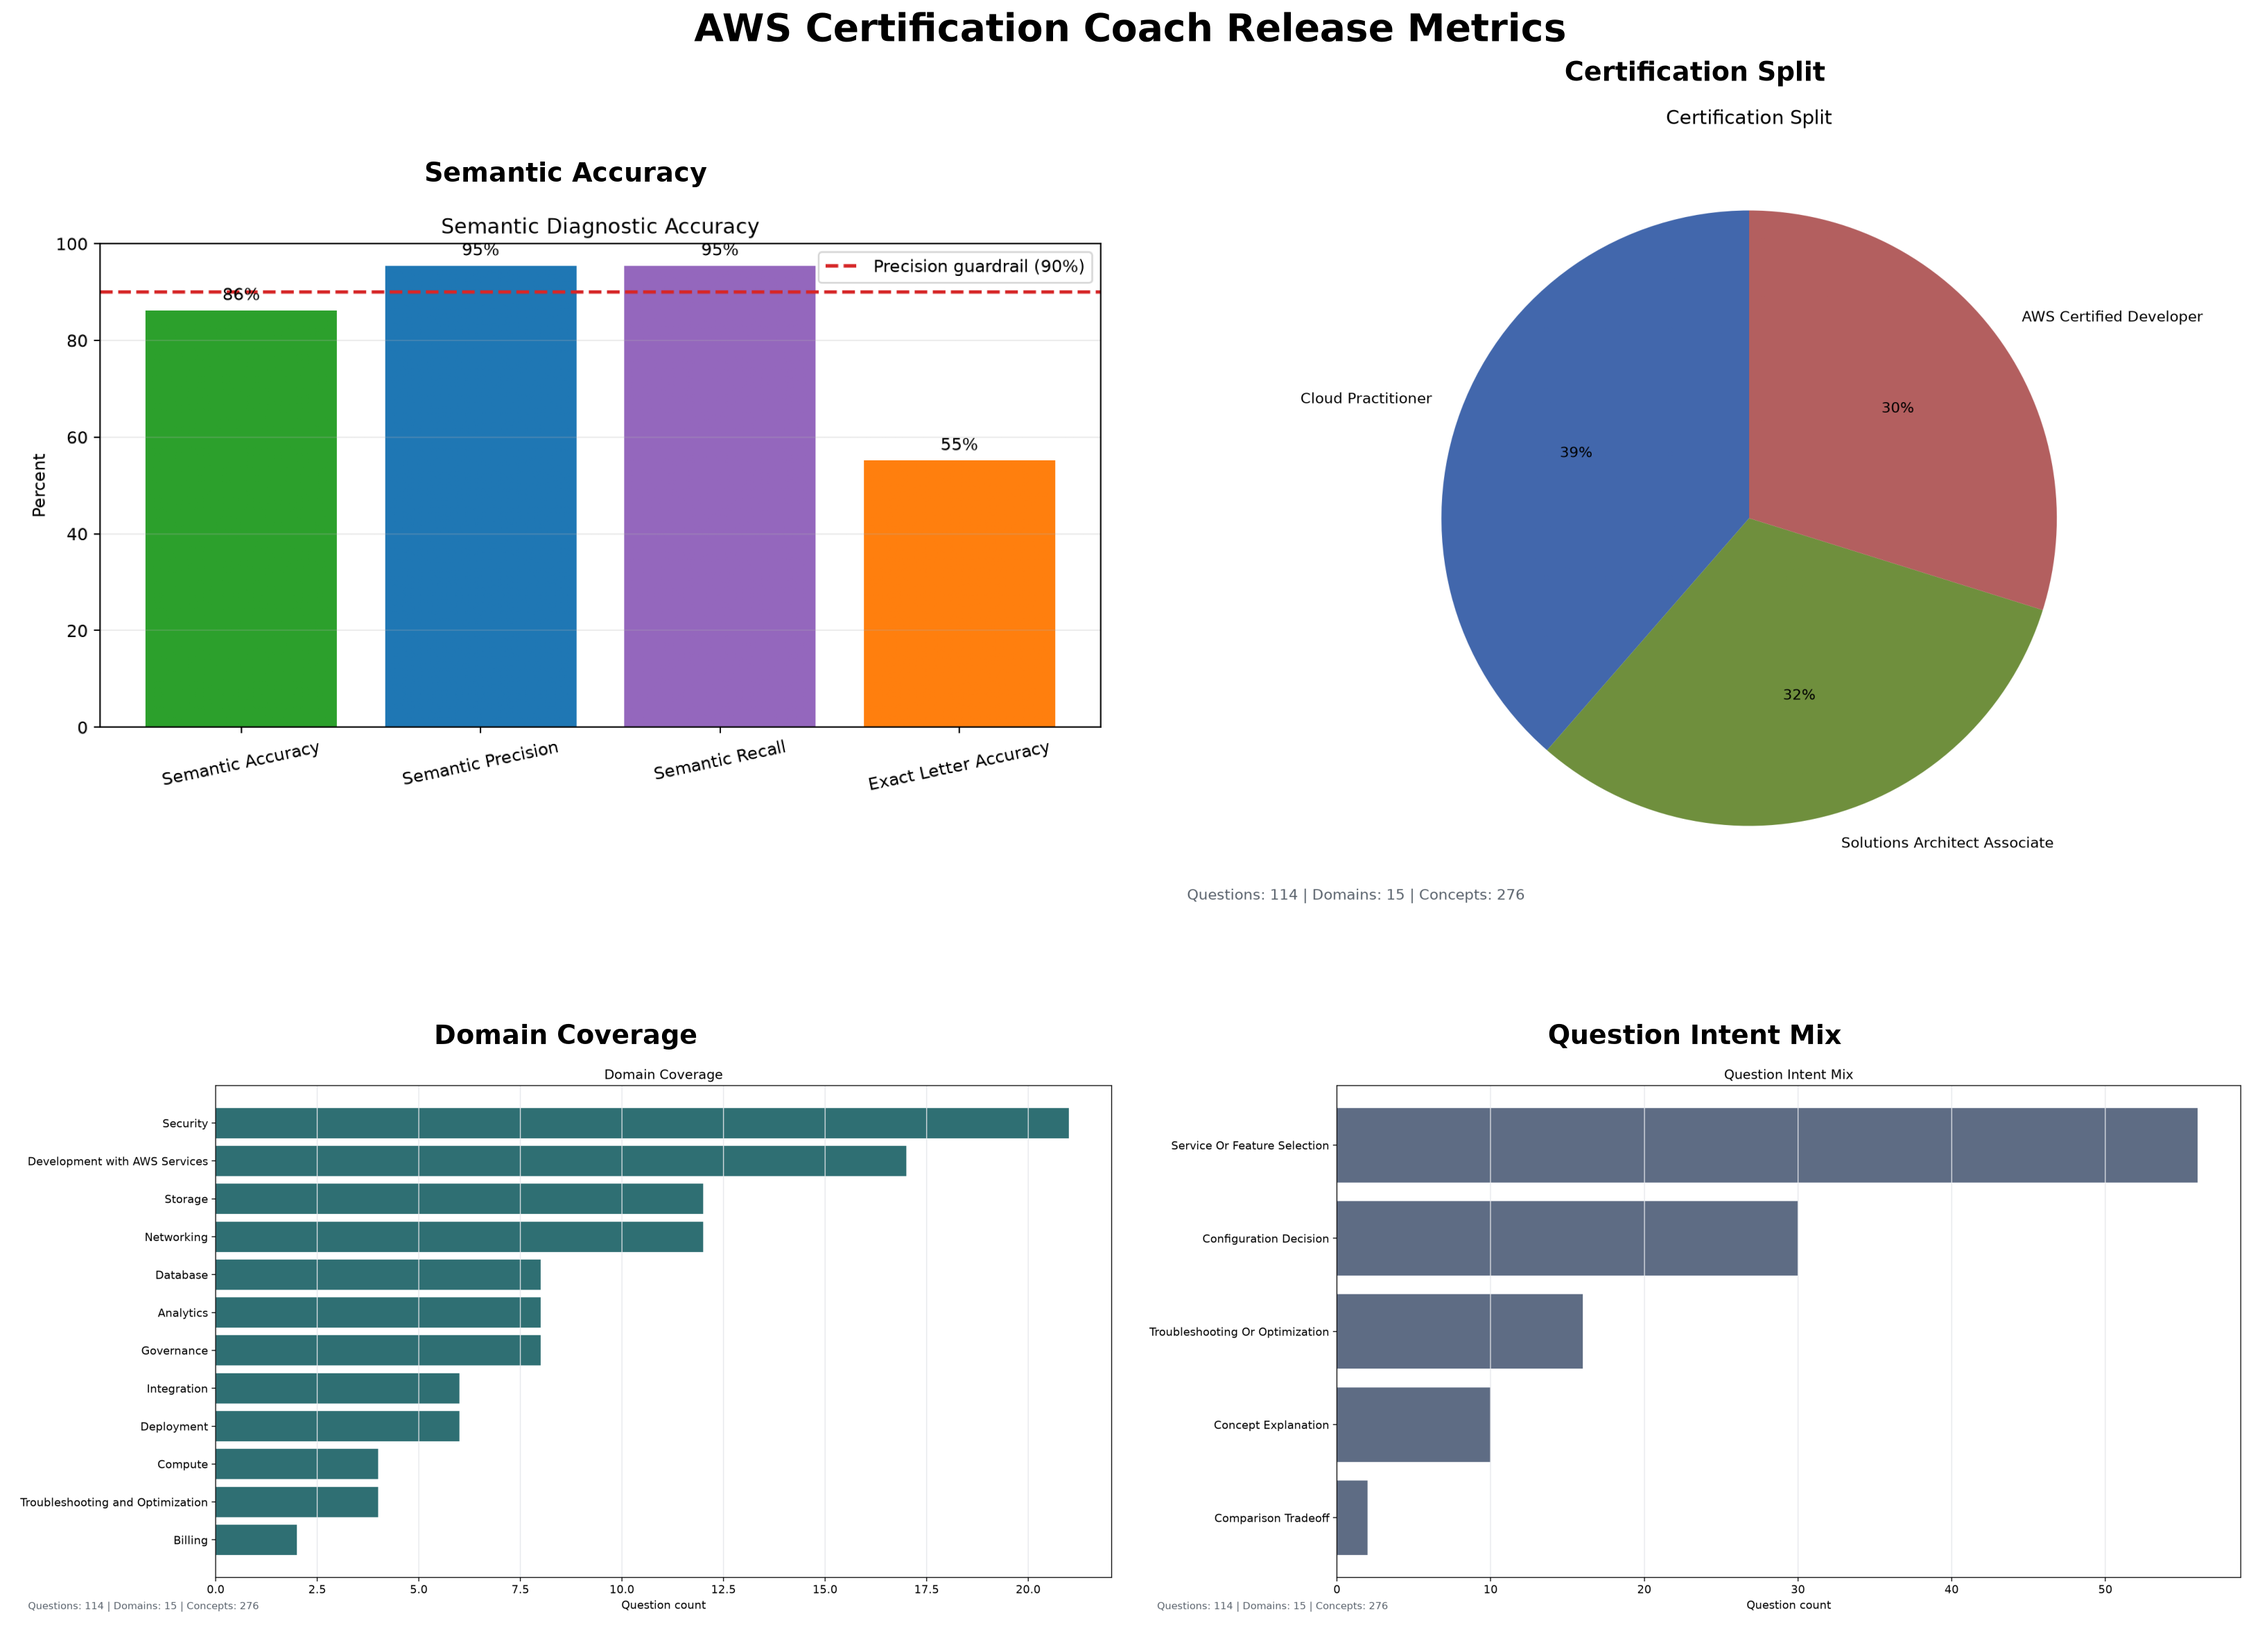
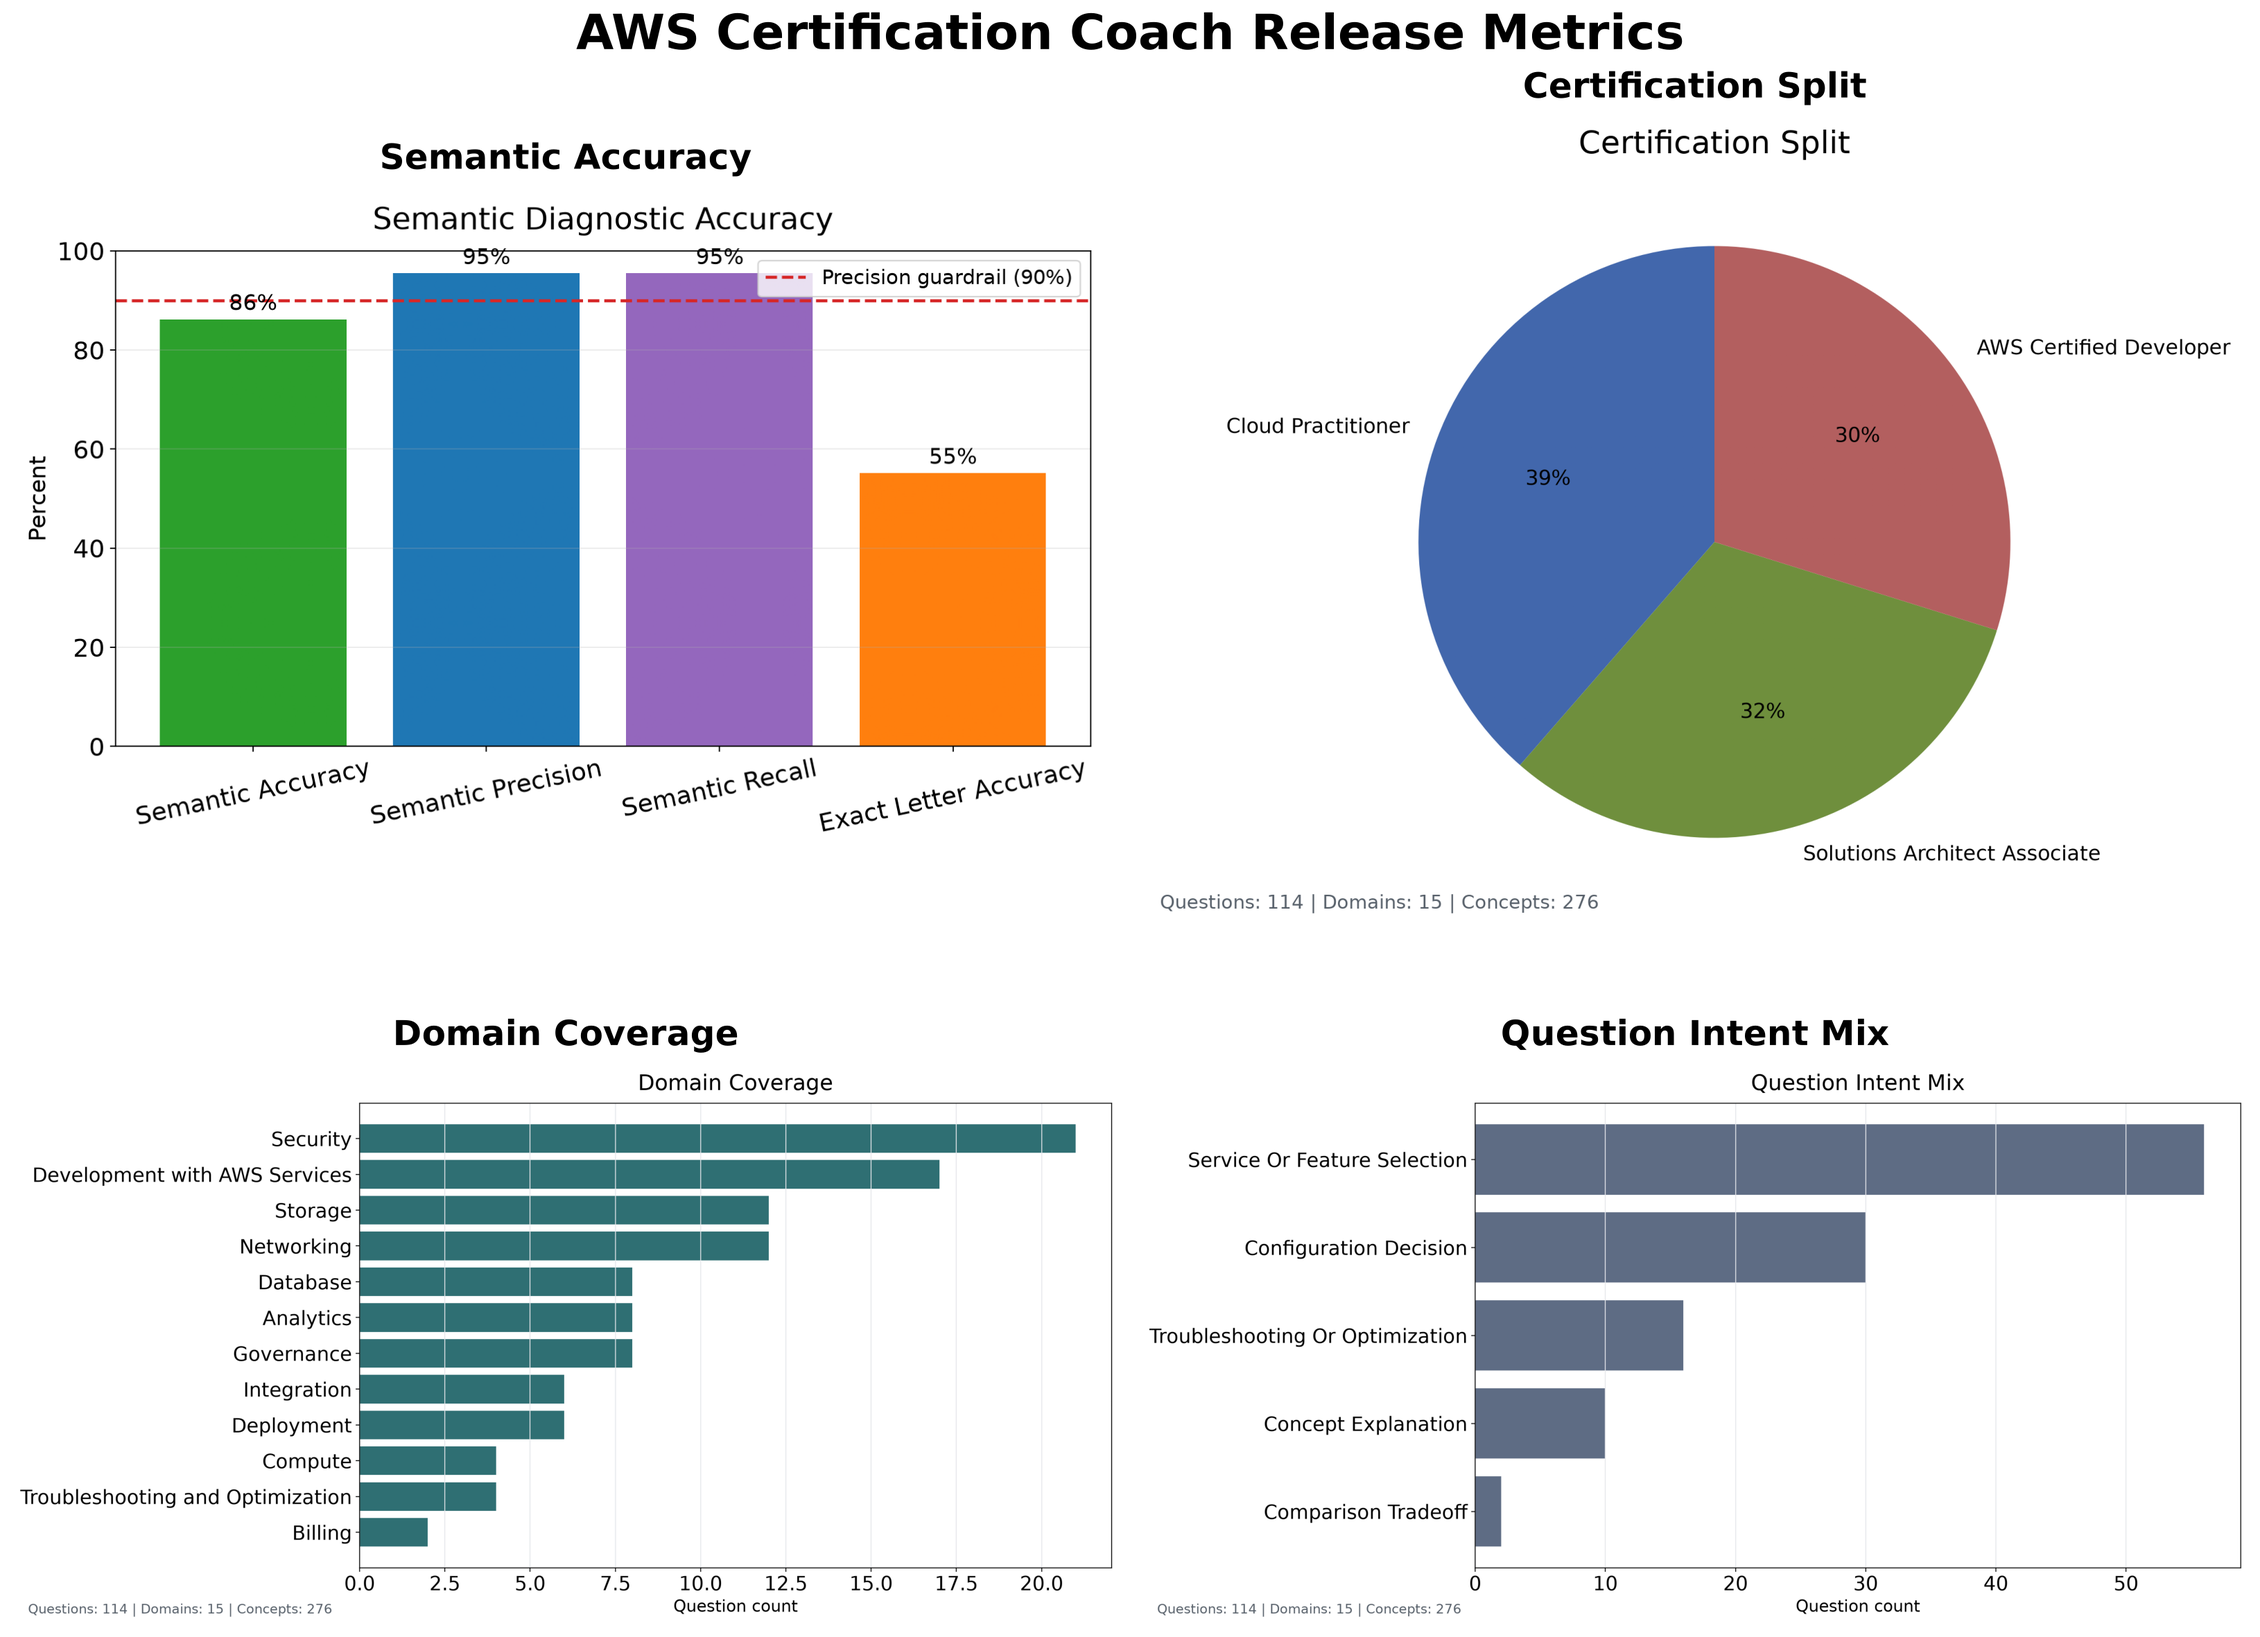
v2.3.2.1 Updated Chart font size

diff --git a/src/aws_certification_coach/release_metrics/question_coverage.py b/src/aws_certification_coach/release_metrics/question_coverage.py
@@ -7,6 +7,16 @@ from pathlib import Path
 from typing import Iterable
 
 
+CHART_FONT_SIZES = {
+    "title": 20,
+    "suptitle": 24,
+    "axis": 15,
+    "tick": 18,
+    "pie": 13,
+    "footer": 12,
+}
+
+
 def measure_question_coverage(rows: Iterable[dict[str, object]]) -> dict[str, object]:
     questions = list(rows)
     domains = Counter(_text(row.get("domain"), "Unknown") for row in questions)
@@ -74,7 +84,11 @@ def plot_question_coverage(metrics: dict[str, object], output_path: Path) -> Non
     cert_axis = figure.add_subplot(grid[2, 0])
     _plot_certifications(cert_axis, certifications)
 
-    figure.suptitle("AWS Certification Coach Question Coverage", fontsize=18, fontweight="bold")
+    figure.suptitle(
+        "AWS Certification Coach Question Coverage",
+        fontsize=CHART_FONT_SIZES["suptitle"],
+        fontweight="bold",
+    )
     figure.text(
         0.01,
         0.01,
@@ -83,7 +97,7 @@ def plot_question_coverage(metrics: dict[str, object], output_path: Path) -> Non
             f"Domains: {int(metrics.get('domain_count', 0))} | "
             f"Concepts: {int(metrics.get('concept_count', 0))}"
         ),
-        fontsize=9,
+        fontsize=CHART_FONT_SIZES["footer"],
         color="#57606a",
     )
     output_path.parent.mkdir(parents=True, exist_ok=True)
@@ -237,8 +251,9 @@ def _plot_horizontal_bars(
     labels = [label for label, _ in series][::-1]
     values = [value for _, value in series][::-1]
     axis.barh(labels, values, color=color)
-    axis.set_title(title)
-    axis.set_xlabel(xlabel)
+    axis.set_title(title, fontsize=CHART_FONT_SIZES["title"], pad=12)
+    axis.set_xlabel(xlabel, fontsize=CHART_FONT_SIZES["axis"])
+    axis.tick_params(axis="both", labelsize=CHART_FONT_SIZES["tick"])
     axis.grid(axis="x", color="#e5e7eb", linewidth=0.8)
 
 
@@ -252,17 +267,18 @@ def _plot_certifications(axis: object, series: list[tuple[str, int]]) -> None:
         autopct=lambda pct: f"{pct:.0f}%" if pct >= 4 else "",
         startangle=90,
         colors=colors[: len(values)],
-        textprops={"fontsize": 9},
+        textprops={"fontsize": CHART_FONT_SIZES["pie"]},
     )
-    axis.set_title("Certification Split")
+    axis.set_title("Certification Split", fontsize=CHART_FONT_SIZES["title"], pad=12)
 
 
 def _plot_question_intents(axis: object, series: list[tuple[str, int]]) -> None:
     labels = [label.replace("_", " ").title() for label, _ in series][::-1]
     values = [value for _, value in series][::-1]
     axis.barh(labels, values, color="#5e6c84")
-    axis.set_title("Question Intent Mix")
-    axis.set_xlabel("Question count")
+    axis.set_title("Question Intent Mix", fontsize=CHART_FONT_SIZES["title"], pad=12)
+    axis.set_xlabel("Question count", fontsize=CHART_FONT_SIZES["axis"])
+    axis.tick_params(axis="both", labelsize=CHART_FONT_SIZES["tick"])
     axis.grid(axis="x", color="#e5e7eb", linewidth=0.8)
 
 
@@ -275,6 +291,6 @@ def _add_footer(figure: object, metrics: dict[str, object]) -> None:
             f"Domains: {int(metrics.get('domain_count', 0))} | "
             f"Concepts: {int(metrics.get('concept_count', 0))}"
         ),
-        fontsize=9,
+        fontsize=CHART_FONT_SIZES["footer"],
         color="#57606a",
     )

diff --git a/scripts/plot_training_history.py b/scripts/plot_training_history.py
@@ -19,6 +19,15 @@ import matplotlib.pyplot as plt
 import pandas as pd
 
 
+CHART_FONT_SIZES = {
+    "title": 19,
+    "axis": 15,
+    "tick": 13,
+    "legend": 13,
+    "annotation": 13,
+}
+
+
 def plot_training_history(
     history_path: Path,
     output_path: Path,
@@ -38,15 +47,16 @@ def plot_training_history(
         figsize=(10, 6),
         color={"mse": "#d62728", "mae": "#1f77b4"},
     )
-    axis.set_title("Partial-Credit Model Performance During Training")
-    axis.set_xlabel("Training epoch")
-    axis.set_ylabel("Error (lower is better)")
+    axis.set_title("Partial-Credit Model Performance During Training", fontsize=CHART_FONT_SIZES["title"], pad=12)
+    axis.set_xlabel("Training epoch", fontsize=CHART_FONT_SIZES["axis"])
+    axis.set_ylabel("Error (lower is better)", fontsize=CHART_FONT_SIZES["axis"])
     axis.set_xscale("log")
     axis.set_xticks(frame.index)
     axis.set_xticklabels([str(int(epoch)) for epoch in frame.index])
+    axis.tick_params(axis="both", labelsize=CHART_FONT_SIZES["tick"])
     axis.set_ylim(bottom=0)
     axis.grid(True, alpha=0.25)
-    axis.legend(["Mean squared error", "Mean absolute error"])
+    axis.legend(["Mean squared error", "Mean absolute error"], fontsize=CHART_FONT_SIZES["legend"])
     axis.figure.tight_layout()
 
     output_path.parent.mkdir(parents=True, exist_ok=True)
@@ -68,16 +78,24 @@ def _plot_curated_accuracy(frame: pd.DataFrame, output_path: Path) -> None:
         color="#2ca02c",
     )
     axis.axhline(90, color="#d62728", linestyle="--", linewidth=2, label="Release target (90%)")
-    axis.set_title("Curated Exact-Letter Accuracy During Training")
-    axis.set_xlabel("Training epoch")
+    axis.set_title("Curated Exact-Letter Accuracy During Training", fontsize=CHART_FONT_SIZES["title"], pad=12)
+    axis.set_xlabel("Training epoch", fontsize=CHART_FONT_SIZES["axis"])
     axis.set_xscale("log")
     axis.set_xticks(frame.index)
     axis.set_xticklabels([str(int(epoch)) for epoch in frame.index])
+    axis.tick_params(axis="both", labelsize=CHART_FONT_SIZES["tick"])
     axis.set_ylim(0, 100)
     axis.grid(True, alpha=0.25)
-    axis.legend(["Curated exact-letter accuracy", "Release target (90%)"])
+    axis.legend(["Curated exact-letter accuracy", "Release target (90%)"], fontsize=CHART_FONT_SIZES["legend"])
     for epoch, value in accuracy.items():
-        axis.annotate(f"{value:.0f}%", (epoch, value), xytext=(0, 8), textcoords="offset points", ha="center")
+        axis.annotate(
+            f"{value:.0f}%",
+            (epoch, value),
+            xytext=(0, 8),
+            textcoords="offset points",
+            ha="center",
+            fontsize=CHART_FONT_SIZES["annotation"],
+        )
     axis.figure.tight_layout()
     output_path.parent.mkdir(parents=True, exist_ok=True)
     axis.figure.savefig(output_path, dpi=160)

diff --git a/scripts/semantic_similarity_evaluation.py b/scripts/semantic_similarity_evaluation.py
@@ -23,6 +23,15 @@ from aws_certification_coach.model_evaluation.semantic_similarity import (
 from aws_certification_coach.questions.json_repository import JsonQuestionRepository
 
 
+CHART_FONT_SIZES = {
+    "title": 20,
+    "axis": 15,
+    "tick": 16,
+    "legend": 13,
+    "annotation": 14,
+}
+
+
 def main() -> None:
     parser = argparse.ArgumentParser(description=__doc__)
     parser.add_argument("--curated", type=Path, default=Path("data/curated/curated_training_data.json"))
@@ -67,15 +76,16 @@ def plot_semantic_accuracy(
         "Exact Letter Accuracy": exact_letter_accuracy * 100,
     }
     colors = ["#2ca02c", "#1f77b4", "#9467bd", "#ff7f0e"]
-    figure, axis = plt.subplots(figsize=(9, 5))
+    figure, axis = plt.subplots(figsize=(10, 6))
     bars = axis.bar(values.keys(), values.values(), color=colors)
     axis.axhline(90, color="#d62728", linestyle="--", linewidth=2, label="Precision guardrail (90%)")
-    axis.set_title("Semantic Diagnostic Accuracy")
-    axis.set_ylabel("Percent")
+    axis.set_title("Semantic Diagnostic Accuracy", fontsize=CHART_FONT_SIZES["title"], pad=14)
+    axis.set_ylabel("Percent", fontsize=CHART_FONT_SIZES["axis"])
     axis.set_ylim(0, 100)
     axis.grid(axis="y", alpha=0.25)
-    axis.legend()
-    axis.tick_params(axis="x", labelrotation=12)
+    axis.legend(fontsize=CHART_FONT_SIZES["legend"])
+    axis.tick_params(axis="x", labelrotation=12, labelsize=CHART_FONT_SIZES["tick"])
+    axis.tick_params(axis="y", labelsize=CHART_FONT_SIZES["tick"])
     for bar in bars:
         height = bar.get_height()
         axis.annotate(
@@ -84,6 +94,7 @@ def plot_semantic_accuracy(
             xytext=(0, 6),
             textcoords="offset points",
             ha="center",
+            fontsize=CHART_FONT_SIZES["annotation"],
         )
     figure.tight_layout()
     output_path.parent.mkdir(parents=True, exist_ok=True)

diff --git a/scripts/combine_release_charts.py b/scripts/combine_release_charts.py
@@ -18,6 +18,11 @@ import matplotlib.image as mpimg
 import matplotlib.pyplot as plt
 
 
+CHART_FONT_SIZES = {
+    "title": 20,
+    "suptitle": 28,
+}
+
 DEFAULT_CHARTS = (
     ("Semantic Accuracy", Path("release/semantic_accuracy.png")),
     ("Certification Split", Path("release/question_certification_coverage.png")),
@@ -34,10 +39,14 @@ def combine_release_charts(charts: list[tuple[str, Path]], output: Path) -> None
     figure, axes = plt.subplots(2, 2, figsize=(18, 14), constrained_layout=True)
     for axis, (title, path) in zip(axes.flat, charts):
         axis.imshow(mpimg.imread(path))
-        axis.set_title(title, fontsize=15, fontweight="bold", pad=10)
+        axis.set_title(title, fontsize=CHART_FONT_SIZES["title"], fontweight="bold", pad=12)
         axis.axis("off")
 
-    figure.suptitle("AWS Certification Coach Release Metrics", fontsize=22, fontweight="bold")
+    figure.suptitle(
+        "AWS Certification Coach Release Metrics",
+        fontsize=CHART_FONT_SIZES["suptitle"],
+        fontweight="bold",
+    )
     output.parent.mkdir(parents=True, exist_ok=True)
     figure.savefig(output, dpi=180, bbox_inches="tight")
     plt.close(figure)

diff --git a/scripts/release_metrics.py b/scripts/release_metrics.py
@@ -44,7 +44,7 @@ def render_release_metrics(
     exact_letter_accuracy = float(semantic.get("semantic_exact_letter_accuracy", semantic["semantic_grade_accuracy"]))
     return "\n".join(
         [
-            "# Latest Release Metrics",
+            "## Generated Release Metrics",
             "",
             "| Release | Semantic Accuracy | Semantic Precision | Semantic Recall | Exact Letter Accuracy | Question Fidelity |",
             "|:--------|------------------:|-------------------:|----------------:|----------------------:|------------------:|",

diff --git a/RELEASE_NOTES.md b/RELEASE_NOTES.md
@@ -52,11 +52,11 @@ For v2.3.2 the strict-grading parameter was deprecated and a new column added fo
 ![Release Metrics Chart](release/release_metrics_chart.png)
 
 <!-- release-metrics:start -->
-# Latest Release Metrics
+## Generated Release Metrics
 
 | Release | Semantic Accuracy | Semantic Precision | Semantic Recall | Exact Letter Accuracy | Question Fidelity |
 |:--------|------------------:|-------------------:|----------------:|----------------------:|------------------:|
-| v2.3.2 | 86.21% | 95.45% | 95.45% | 55.17% | 95.12% |
+| v2.3.2.1 | 86.21% | 95.45% | 95.45% | 55.17% | 95.12% |
 
 Saved model answer form: `long`
 Saved model calibration count: `22`
